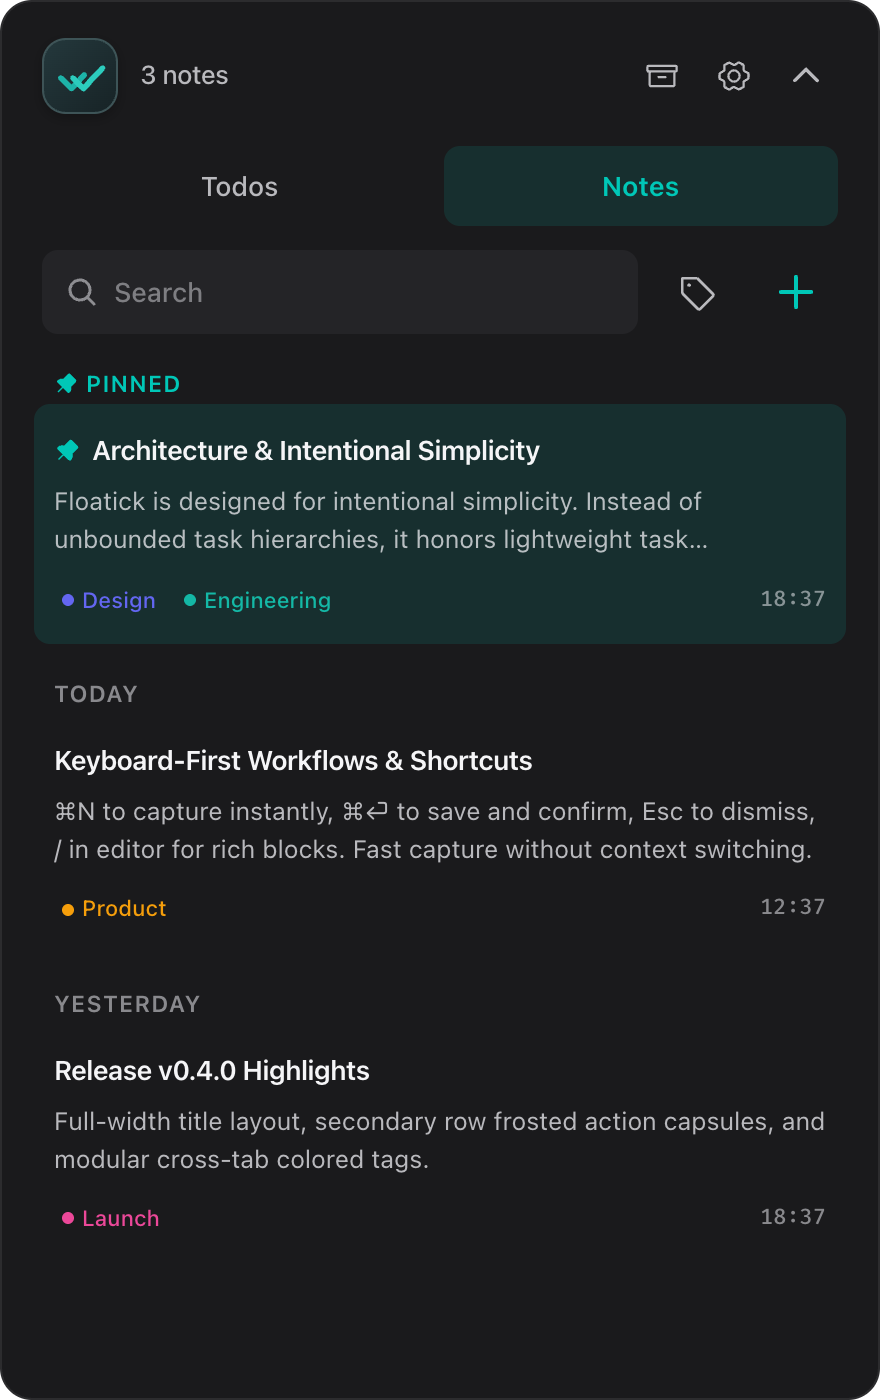
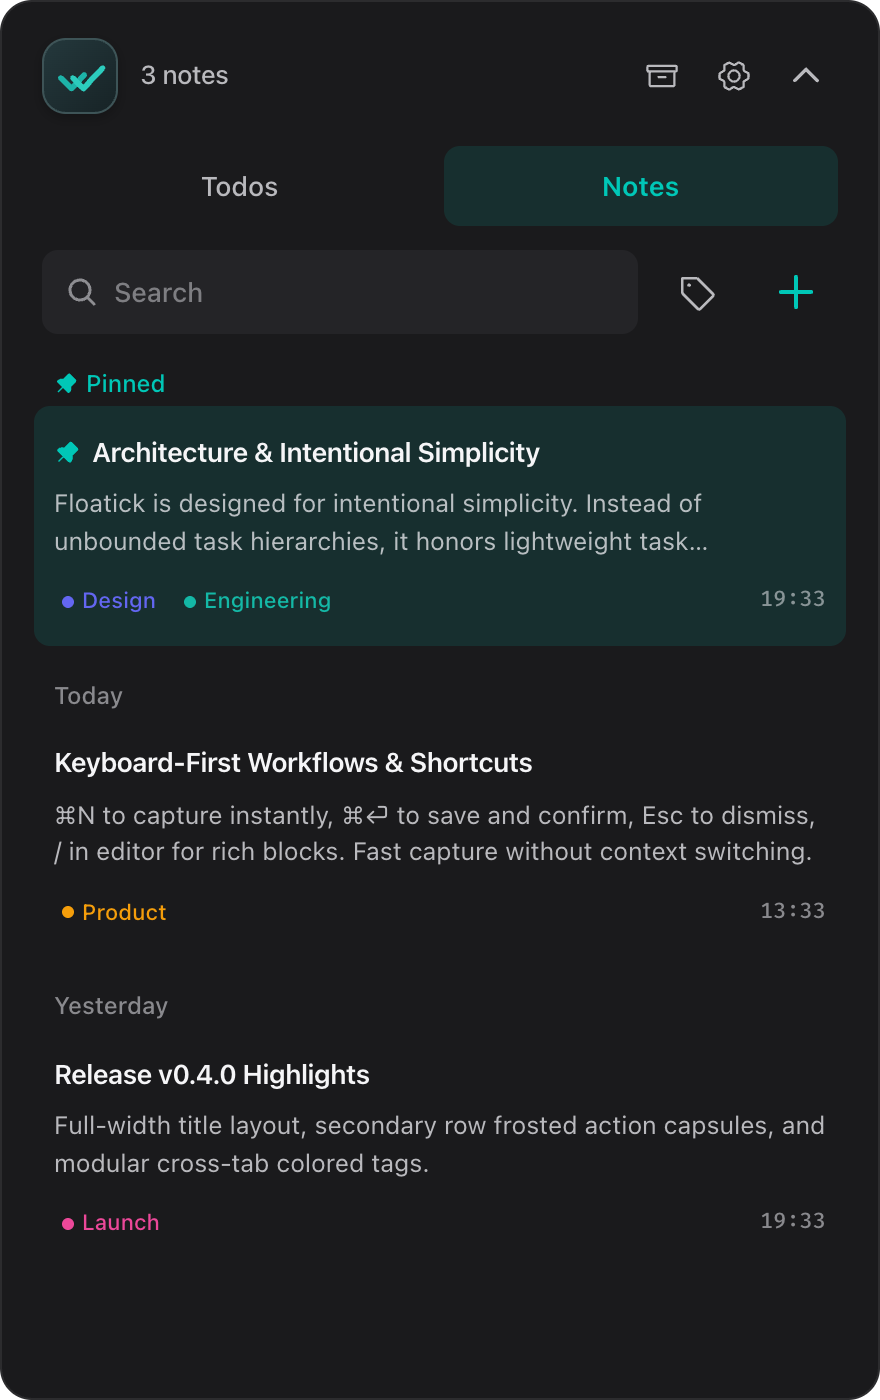
style(ui): use normal sentence case for date groups and time labels instead of all-caps
- Remove CSS uppercase tracking-wider from date headers and category labels across Todo and Note views
- Date grouping headers now render cleanly in natural casing (Today, Yesterday, Pinned)
- Re-capture product screenshots (todos, notes, editor) with updated casing
- Re-synthesize docs/assets/floatick-showcase.png with clean typography

diff --git a/src/components/common/FloatickTiptapEditor.tsx b/src/components/common/FloatickTiptapEditor.tsx
@@ -434,7 +434,7 @@ export const EditorToolbar: React.FC<{ editor: Editor | null }> = ({ editor }) =
                 className="absolute right-0 top-full mt-1.5 z-50 w-44 bg-[var(--color-bg-drawer)] rounded-xl shadow-2xl border border-[var(--color-border-drawer)] p-1 backdrop-blur-xl animate-in fade-in zoom-in-95 duration-100 select-none"
                 onClick={(e) => e.stopPropagation()}
               >
-                <div className="px-2.5 pt-1 pb-1 text-[10px] font-semibold text-[var(--color-text-subtle)] uppercase tracking-wider">
+                <div className="px-2.5 pt-1 pb-1 text-[11px] font-medium text-[var(--color-text-subtle)]">
                   更多格式
                 </div>
 
@@ -833,7 +833,7 @@ export const FloatickTiptapEditor: React.FC<FloatickTiptapEditorProps> = ({
             style={{ top: `${menuCoords.top}px`, left: `${menuCoords.left}px` }}
             className="slash-menu-scrollbar absolute z-50 w-64 max-h-[290px] overflow-y-auto rounded-xl bg-[var(--color-bg-drawer)] text-[var(--color-text-primary)] border border-[var(--color-border-drawer)] shadow-lg dark:shadow-2xl p-1.5 backdrop-blur-xl animate-in fade-in zoom-in-95 duration-100 pr-1.5"
           >
-            <div className="px-2 pt-1 pb-1.5 text-[10px] font-semibold text-[var(--color-text-subtle)] uppercase tracking-wider select-none">
+            <div className="px-2 pt-1 pb-1.5 text-[11px] font-medium text-[var(--color-text-subtle)] select-none">
               常用模块
             </div>
             {filteredCommands.map((cmd, index) => {

diff --git a/src/components/notes/NotePanel.tsx b/src/components/notes/NotePanel.tsx
@@ -128,7 +128,7 @@ export const NotePanel: React.FC<NotePanelProps> = ({ onOpenTagFilter }) => {
             {/* Pinned Section */}
             {pinnedNotes.length > 0 && (
               <div className="space-y-0.5">
-                <div className="px-2.5 pt-1 text-[11.5px] font-semibold text-[var(--color-teal-primary)] uppercase tracking-wider flex items-center space-x-1">
+                <div className="px-2.5 pt-1 text-[12px] font-medium text-[var(--color-teal-primary)] flex items-center space-x-1">
                   <PushPin size={12} weight="fill" />
                   <span>{t("pinnedNotes")}</span>
                 </div>
@@ -148,7 +148,7 @@ export const NotePanel: React.FC<NotePanelProps> = ({ onOpenTagFilter }) => {
             {/* Date Grouped Regular Notes */}
             {groupedNotes.map((group) => (
               <div key={group.label} className="space-y-0.5">
-                <div className="px-2.5 pt-1 text-[11.5px] font-semibold text-[var(--color-text-subtle)] uppercase tracking-wider">
+                <div className="px-2.5 pt-1 text-[12px] font-medium text-[var(--color-text-subtle)]">
                   {group.label}
                 </div>
                 <div className="space-y-0.5">

diff --git a/src/components/notes/NoteEditorDrawer.tsx b/src/components/notes/NoteEditorDrawer.tsx
@@ -386,7 +386,7 @@ export const NoteEditorDrawer: React.FC<NoteEditorDrawerProps> = ({
                     onClick={() => setShowTagMenu(false)}
                   />
                   <div className="absolute left-0 top-7.5 z-40 w-48 bg-[var(--color-bg-drawer)] rounded-xl shadow-2xl border border-[var(--color-border-drawer)] py-1.5 text-xs animate-in fade-in zoom-in-95 duration-100 max-h-56 overflow-y-auto smooth-scroll">
-                    <div className="px-3 py-1 text-[11px] font-semibold text-[var(--color-text-subtle)] uppercase tracking-wider">
+                    <div className="px-3 py-1 text-[11.5px] font-medium text-[var(--color-text-subtle)]">
                       {t("tags")}
                     </div>
                     {tagsWorkspace.tags.length === 0 ? (

diff --git a/src/components/todos/TodoEditorDrawer.tsx b/src/components/todos/TodoEditorDrawer.tsx
@@ -379,7 +379,7 @@ export const TodoEditorDrawer: React.FC<TodoEditorDrawerProps> = ({
                     onClick={() => setShowTagMenu(false)}
                   />
                   <div className="absolute left-0 top-7.5 z-40 w-48 bg-[var(--color-bg-drawer)] rounded-xl shadow-2xl border border-[var(--color-border-drawer)] py-1.5 text-xs animate-in fade-in zoom-in-95 duration-100 max-h-56 overflow-y-auto smooth-scroll">
-                    <div className="px-3 py-1 text-[11px] font-semibold text-[var(--color-text-subtle)] uppercase tracking-wider">
+                    <div className="px-3 py-1 text-[11.5px] font-medium text-[var(--color-text-subtle)]">
                       {t("tags")}
                     </div>
                     {tagsWorkspace.tags.length === 0 ? (

diff --git a/src/components/todos/TodoPanel.tsx b/src/components/todos/TodoPanel.tsx
@@ -142,7 +142,7 @@ export const TodoPanel: React.FC<TodoPanelProps> = ({
           groupedTodos.map((group) => (
             <div key={group.label} className="space-y-0.5">
               {/* Clean category header */}
-              <div className="px-2.5 pt-1 text-[11.5px] font-semibold text-[var(--color-text-subtle)] uppercase tracking-wider">
+              <div className="px-2.5 pt-1 text-[12px] font-medium text-[var(--color-text-subtle)]">
                 {group.label}
               </div>
 
